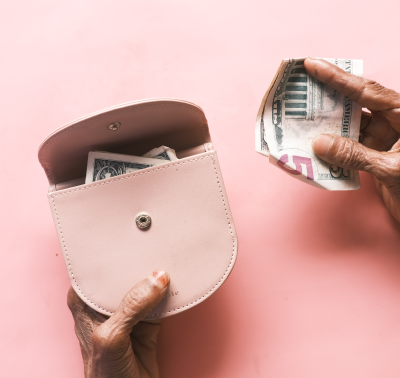
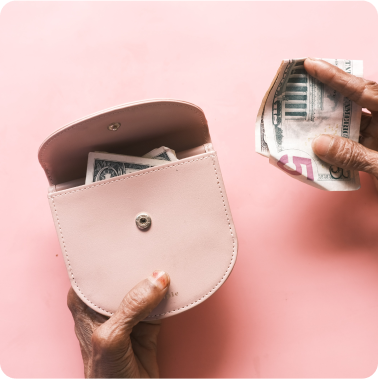
Complete Blog Section

diff --git a/src/sass/components/post.scss b/src/sass/components/post.scss
@@ -1,0 +1,61 @@
+@use "sass:math";
+@use "../abstracts" as *;
+
+.post {
+	@include minw-mq(35em) {
+		display: flex;
+		column-gap: 2rem;
+		margin-bottom: 1rem;
+	}
+	
+	@include minw-mq(75em) {
+		display: block;
+		margin-bottom: 0;
+	}
+}
+
+.post__image {
+	margin-bottom: 1rem;
+
+	@include minw-mq(35em) {
+		width: 40%;
+	}
+
+	@include minw-mq(75em) {
+		width: 100%;
+		margin-bottom: 1.5rem;
+	}
+}
+
+.post__image-picture {
+	border-radius: 16px;
+	// max-height: 350px;
+}
+
+.post__text {
+	display: flex;
+	flex-direction: column;
+	@include minw-mq(35em) {
+		width: 60%;
+	}
+
+	@include minw-mq(75em) {
+		width: 100%;
+		margin-bottom: 1.5rem;
+	}
+}
+
+.post__description {
+	margin-block: .5rem 1.5rem;
+}
+
+.post__tags {
+	display: flex;
+	column-gap: .5rem;
+	margin-top: auto;
+}
+
+.post__image {
+	display: flex;
+	justify-content: center;
+}

diff --git a/src/sass/elements/_tags.scss b/src/sass/elements/_tags.scss
@@ -1,10 +1,18 @@
 @use "sass:math";
 @use "../abstracts" as *;
 
-.popular {
-	display: inline-flex;
-	align-items: center;
+.tag {
+	display: inline-block;
+	font-family: 'Inter';
+	font-size: .8125rem;
+	line-height: 1.8;
+	letter-spacing: 0;
+	background-color: var(--clr-neutral-100);
+	border-radius: 4px;
+	padding: .25rem .625rem;
+}
 
+.popular-pseudo {
 	&::after {
 		content: 'Popular';
 		left: 100%;
@@ -16,6 +24,6 @@
 		background-color: var(--clr-primary-100);
 		border-radius: 4px;
 		margin-left: .5rem;
-		padding-inline: .375rem;
+		padding: 0 .375rem;
 	}
 }

diff --git a/src/sass/components/_index.scss b/src/sass/components/_index.scss
@@ -1,5 +1,6 @@
 @forward 'header';
 @forward 'footer';
+@forward 'post';
 @forward './sections/intro';
 @forward './sections/app';
 @forward './sections/moneytransfering';
@@ -10,3 +11,4 @@
 @forward './sections/testimonials';
 @forward './sections/appbanner';
 @forward './sections/help';
+@forward './sections/blog';

diff --git a/src/sass/components/sections/_blog.scss b/src/sass/components/sections/_blog.scss
@@ -1,0 +1,17 @@
+@use "sass:math";
+@use "../../abstracts" as *;
+
+.blog__posts {
+	gap: 1.5rem 2.0625rem;
+}
+
+.blog__head {
+	display: flex;
+	justify-content: space-between;
+	align-items: center;
+	margin-bottom: 2rem;
+
+	@include minw-mq(75em) {
+		margin-bottom: 4rem;
+	}
+}

diff --git a/src/sass/components/sections/_testimonials.scss b/src/sass/components/sections/_testimonials.scss
@@ -48,7 +48,7 @@
 	@include maxw-mq(65em) {
 		position: static !important;
 		padding-right: var(--sp-slider-gap);
-		min-width: calc(50% + math.div(var(--sp-slider-gap), 2));
+		min-width: calc(50% + calc(var(--sp-slider-gap) / 2));
 		width: auto;
 		margin: 0;
 	}

diff --git a/src/sass/components/sections/_help.scss b/src/sass/components/sections/_help.scss
@@ -1,6 +1,15 @@
 @use "sass:math";
 @use "../../abstracts" as *;
 
+.help {
+	border-bottom: 1px solid var(--clr-neutral-200);
+	padding-bottom: 3rem;
+
+	@include minw-mq(75em) {
+		padding-bottom: 8rem;
+	}
+}
+
 .help__inner {
 	align-items: start;
 	gap: 2rem 0;

diff --git a/src/sass/utilities/_utility-laying.scss b/src/sass/utilities/_utility-laying.scss
@@ -16,7 +16,7 @@
 .even-columns {
 	display: grid;
 
-	@include minw-mq(55em) {
+	@include minw-mq(75em) {
 		grid-auto-flow: column;
 		grid-auto-columns: 1fr;
 	}

diff --git a/src/sass/components/_header.scss b/src/sass/components/_header.scss
@@ -212,6 +212,8 @@
 }
 
 .header__card-title {
+	display: inline-flex;
+	align-items: center;
 	margin-bottom: .25rem;
 }
 

diff --git a/src/pages/blog/7-things-about-banko-your-friends-want-to-know.md b/src/pages/blog/7-things-about-banko-your-friends-want-to-know.md
@@ -1,7 +1,7 @@
 ---
 # layout: ../../layouts/BlogPostLayout.astro
 title: 7 Things About Banko Your Friends Want To Know
-description: Lorem ipsum dolor sit amet, consectetur adipiscing elit, sed do eiusmod tempor incididunt ut labore et dolore magna aliqua. Dui accumsan sit amet nulla facilisi morbi.
+description: Lorem ipsum dolor sit amet, consectetur adipiscing elit, sed do eiusmod tempor incididunt ut labore et dolore magna aliqua. Dui accumsan sit amet nulla facilisi morbi. 
 author: Eld3rt
 date: 2021-06-01
 image: /assets/images/prv-img-7-things-about.png

diff --git a/src/pages/blog/7-ways-to-improve-you-saving-habits.md b/src/pages/blog/7-ways-to-improve-you-saving-habits.md
@@ -1,7 +1,7 @@
 ---
 # layout: ../../layouts/BlogPostLayout.astro
 title: 7 Ways To Improve You Saving Habits
-description: Lorem ipsum dolor sit amet, consectetur adipiscing elit, sed do eiusmod tempor incididunt ut labore et dolore magna aliqua. Dui accumsan sit amet nulla facilisi morbi.
+description: Lorem ipsum dolor sit amet, consectetur adipiscing elit, sed do eiusmod tempor incididunt ut labore et dolore magna aliqua. Dui accumsan sit amet nulla facilisi morbi. 
 author: Eld3rt
 date: 2021-10-01
 image: /assets/images/prv-img-7-ways-to-improve.png
